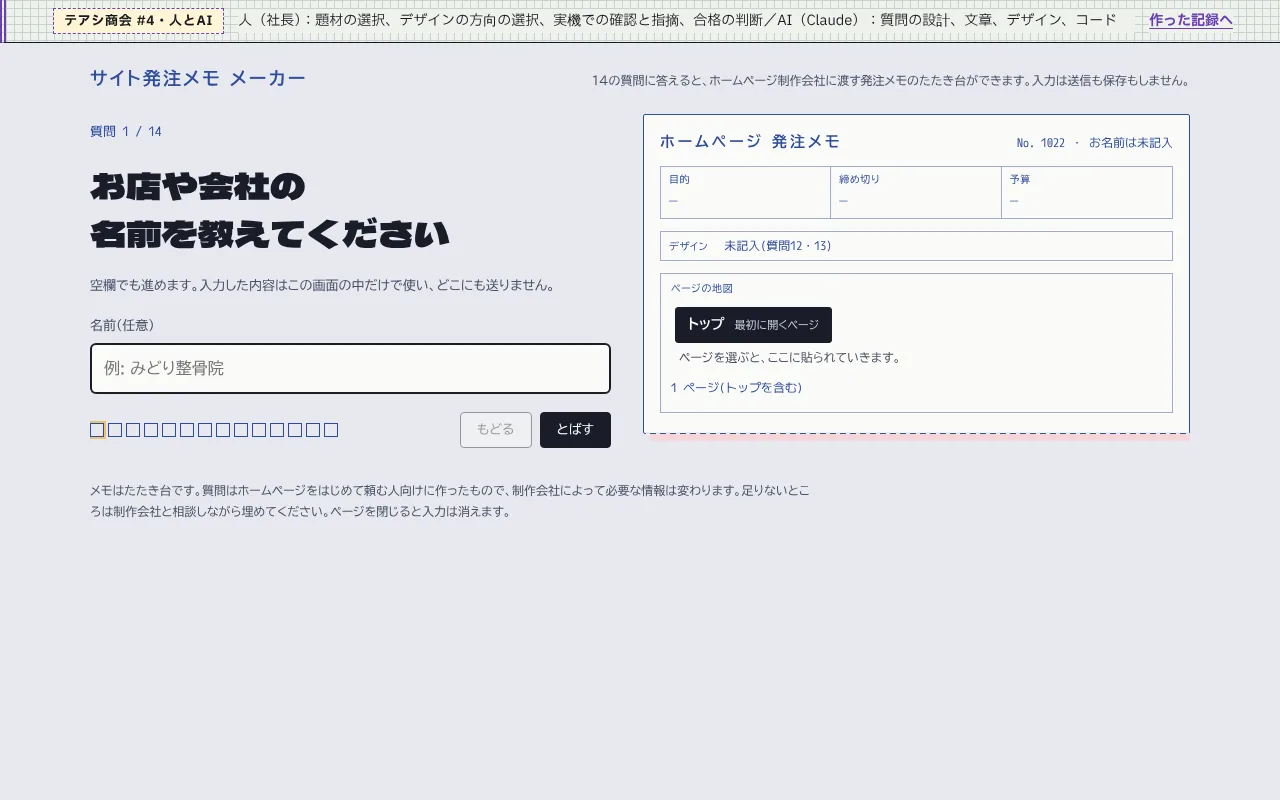
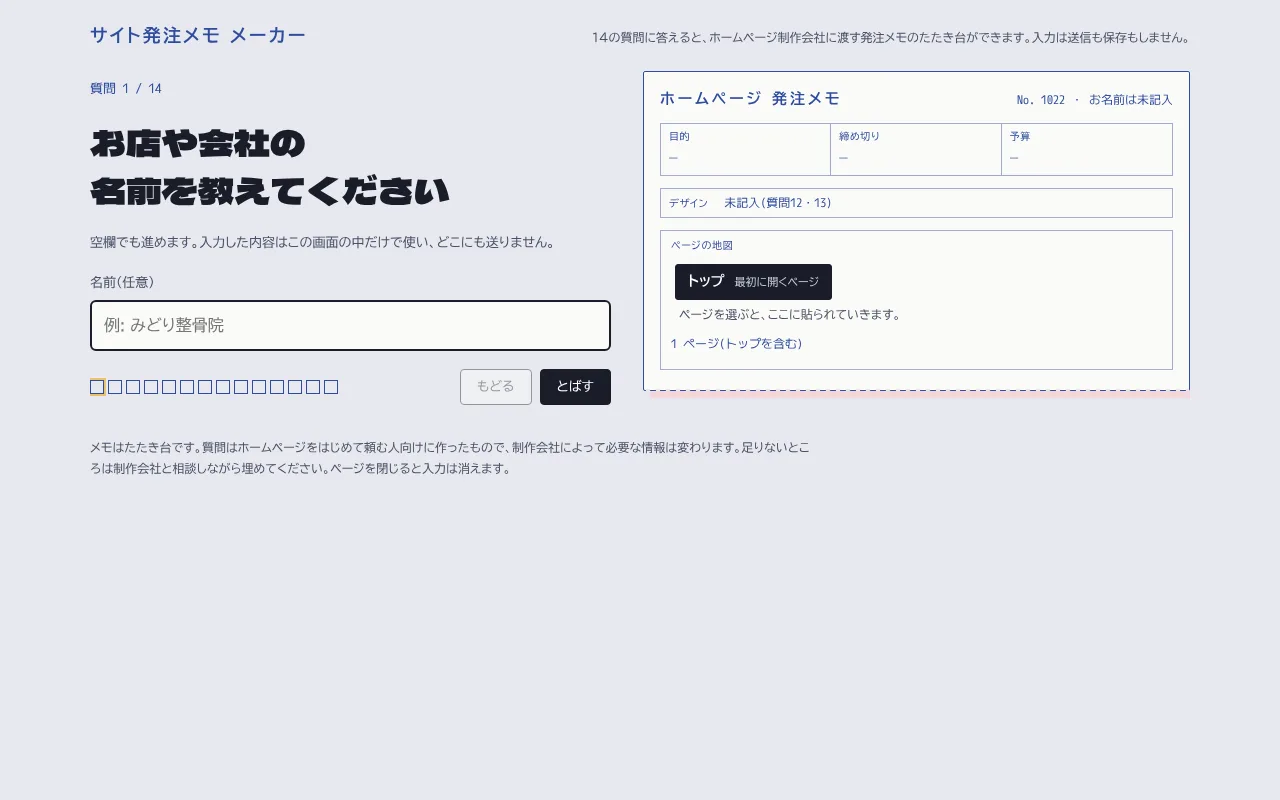
図鑑と発注メモ メーカーからラボ時代の帯を外す
Claude-Session: https://claude.ai/code/session_01EgwbzsKBw5Sjd1AQn9F4JN

diff --git a/lab/order-memo-maker/index.html b/lab/order-memo-maker/index.html
@@ -9,22 +9,9 @@
 <link rel="icon" href="/favicon.ico" sizes="32x32">
 <link rel="apple-touch-icon" href="/apple-touch-icon.png">
 <title>サイト発注メモ メーカー</title>
-<style id="lab-band-css">
-@font-face{font-family:"Lab Band Sans";src:url("/assets/fonts/TeashiSansJP-400.woff2") format("woff2");font-weight:400;font-display:swap}
-@font-face{font-family:"Lab Band Sans";src:url("/assets/fonts/TeashiSansJP-700.woff2") format("woff2");font-weight:700;font-display:swap}
-.lab-band{all:initial;display:block;box-sizing:border-box;background-color:#EEF1EC;background-image:linear-gradient(#C9D3CF 1px,transparent 1px),linear-gradient(90deg,#C9D3CF 1px,transparent 1px);background-size:8px 8px;border-bottom:1.5px solid #15191C;border-left:6px double #6A3FB5;color:#15191C;font:400 14px/1.7 "Lab Band Sans","Hiragino Sans","Yu Gothic",system-ui,sans-serif;padding:8px 16px}
-.lab-band *{box-sizing:border-box}
-.lab-band .lab-band-in{display:flex;flex-wrap:wrap;align-items:center;gap:6px 14px;max-width:1180px;margin:0 auto}
-.lab-band .lab-band-tag{display:inline-block;margin:0;padding:1px 10px;background:#FFF4D6;color:#15191C;border:1.5px dashed #6A3FB5;font-weight:700;font-size:13px;letter-spacing:.06em}
-.lab-band .lab-band-role{margin:0;flex:1 1 20em;min-width:0;background:#EEF1EC;overflow-wrap:anywhere}
-.lab-band .lab-band-link{color:#6A3FB5;font-weight:700;text-decoration:underline;text-underline-offset:.22em;background:#EEF1EC}
-.lab-band .lab-band-link:focus-visible{outline:3px solid #6A3FB5;outline-offset:2px}
-</style>
-
-<style>body{margin:0}.lab-band{margin:-20px calc(-1 * max(16px,env(safe-area-inset-left,0px))) 20px calc(-1 * max(16px,env(safe-area-inset-left,0px)))}@media (max-width:760px){.lab-band{margin-top:-12px}}</style>
+<style>body{margin:0}</style>
 </head>
 <body>
-<aside class="lab-band" aria-label="テアシ商会の作ったもの #4"><div class="lab-band-in"><p class="lab-band-tag">テアシ商会 #4・人とAI</p><p class="lab-band-role">人（社長）：題材の選択、デザインの方向の選択、実機での確認と指摘、合格の判断／AI（Claude）：質問の設計、文章、デザイン、コード</p><a class="lab-band-link" href="/samples/detail/#memo">作った記録へ</a></div></aside>
 <link rel="preconnect" href="https://fonts.googleapis.com">
 <link rel="preconnect" href="https://fonts.gstatic.com" crossorigin>
 <link rel="stylesheet" href="https://fonts.googleapis.com/css2?family=Dela+Gothic+One&family=BIZ+UDPGothic:wght@400;700&family=M+PLUS+1+Code:wght@400;600&display=swap">

diff --git a/lab/web-term-zukan/index.html b/lab/web-term-zukan/index.html
@@ -9,21 +9,8 @@
 <link rel="icon" href="/favicon.ico" sizes="32x32">
 <link rel="apple-touch-icon" href="/apple-touch-icon.png">
 <title>Webデザイン用語の絵図鑑</title>
-<style id="lab-band-css">
-@font-face{font-family:"Lab Band Sans";src:url("/assets/fonts/TeashiSansJP-400.woff2") format("woff2");font-weight:400;font-display:swap}
-@font-face{font-family:"Lab Band Sans";src:url("/assets/fonts/TeashiSansJP-700.woff2") format("woff2");font-weight:700;font-display:swap}
-.lab-band{all:initial;display:block;box-sizing:border-box;background-color:#EEF1EC;background-image:linear-gradient(#C9D3CF 1px,transparent 1px),linear-gradient(90deg,#C9D3CF 1px,transparent 1px);background-size:8px 8px;border-bottom:1.5px solid #15191C;border-left:6px double #6A3FB5;color:#15191C;font:400 14px/1.7 "Lab Band Sans","Hiragino Sans","Yu Gothic",system-ui,sans-serif;padding:8px 16px}
-.lab-band *{box-sizing:border-box}
-.lab-band .lab-band-in{display:flex;flex-wrap:wrap;align-items:center;gap:6px 14px;max-width:1180px;margin:0 auto}
-.lab-band .lab-band-tag{display:inline-block;margin:0;padding:1px 10px;background:#FFF4D6;color:#15191C;border:1.5px dashed #6A3FB5;font-weight:700;font-size:13px;letter-spacing:.06em}
-.lab-band .lab-band-role{margin:0;flex:1 1 20em;min-width:0;background:#EEF1EC;overflow-wrap:anywhere}
-.lab-band .lab-band-link{color:#6A3FB5;font-weight:700;text-decoration:underline;text-underline-offset:.22em;background:#EEF1EC}
-.lab-band .lab-band-link:focus-visible{outline:3px solid #6A3FB5;outline-offset:2px}
-</style>
-
 </head>
 <body>
-<aside class="lab-band" aria-label="テアシ商会の作ったもの #3"><div class="lab-band-in"><p class="lab-band-tag">テアシ商会 #3・人とAI</p><p class="lab-band-role">人（社長）：題材の決定、書体と配色の選択、合格の判断／AI（Claude）：語の選定、構成、文章、図、コード</p><a class="lab-band-link" href="/samples/detail/#zukan">作った記録へ</a></div></aside>
 <link rel="preconnect" href="https://fonts.googleapis.com">
 <link rel="stylesheet" href="https://fonts.googleapis.com/css2?family=Zen+Kaku+Gothic+New:wght@400;700&family=Zen+Maru+Gothic:wght@900&display=swap">
 <style>
